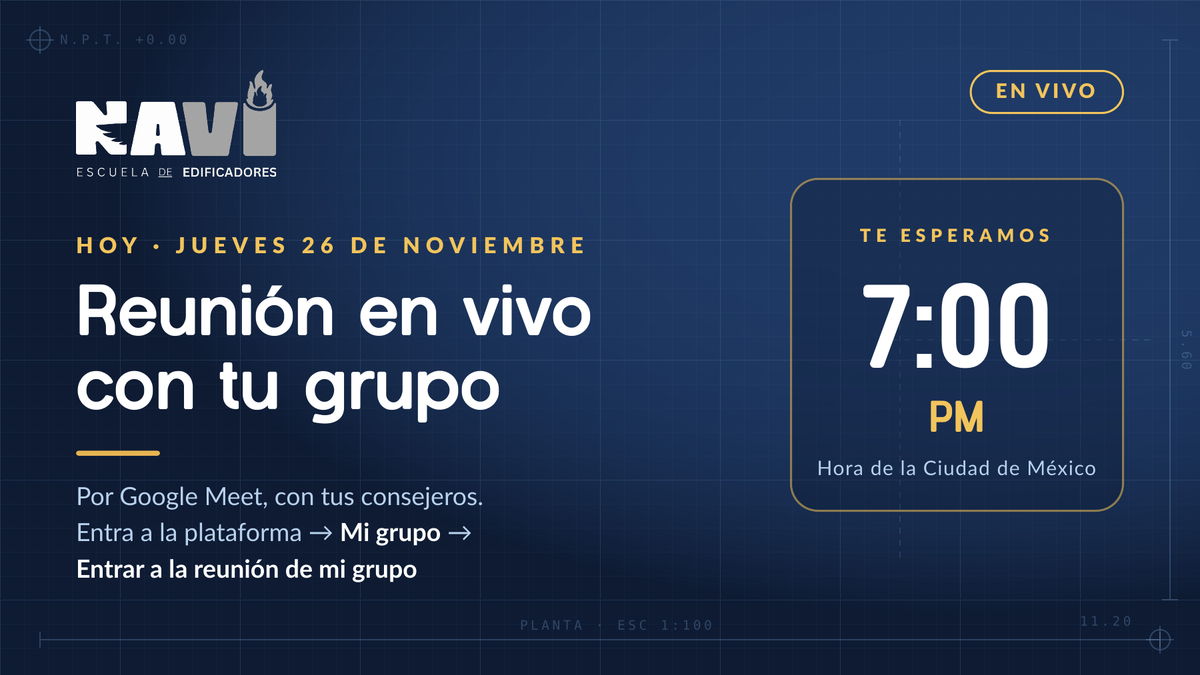
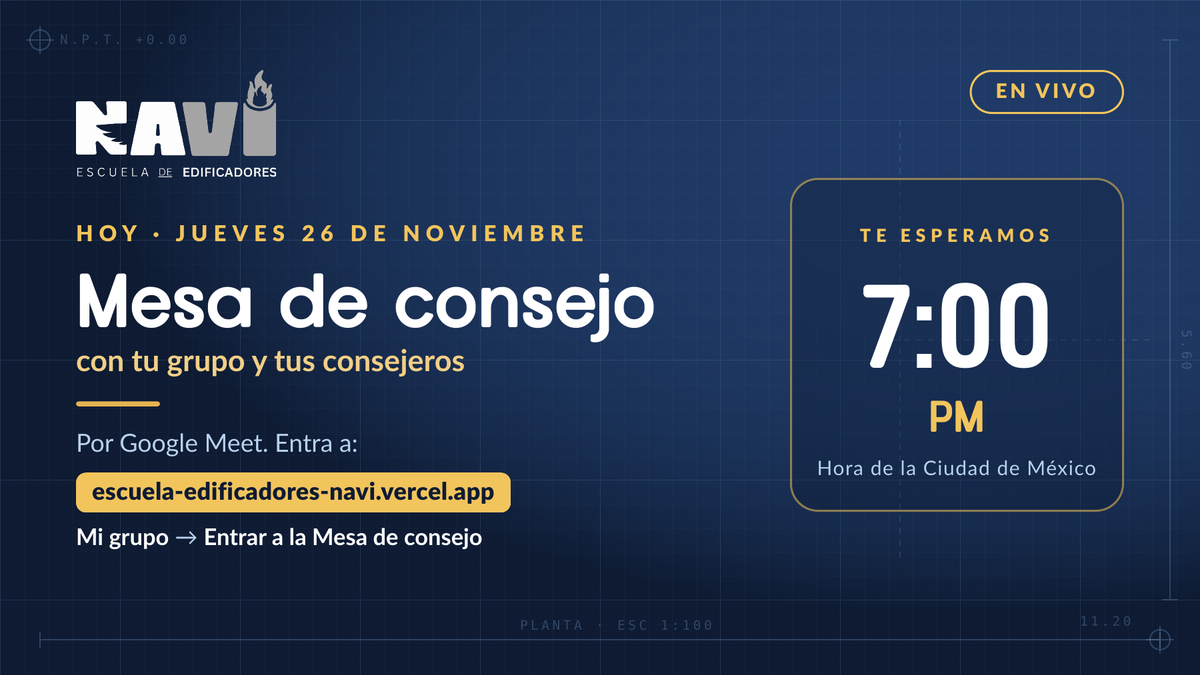
Invitación

Changed region(s): [[0.0617, 0.5289, 0.4317, 0.8711], [0.0617, 0.4044, 0.555, 0.5289], [0.0617, 0.3111, 0.4933, 0.3733]]

diff --git a/index.html b/index.html
@@ -1453,13 +1453,13 @@ function fechaLarga(t){ try{ var d=new Date(t); var s=d.toLocaleDateString('es-M
 function avatarMg(m,big){ var sz=big?46:34; return m.foto?'<img class="mg-av" style="width:'+sz+'px;height:'+sz+'px" src="'+_esc(m.foto)+'" alt="">':'<span class="mg-av mg-ini" style="width:'+sz+'px;height:'+sz+'px;font-size:'+(big?15:12)+'px">'+_esc(_ini(m.nombre))+'</span>'; }
 function reunionGrupoBlock(g){
   var st=estadoReunion(g), link=g.link||'';
-  var btn=function(cls,txt){ return link?'<a class="btn '+cls+' btn-lg mg-go" href="'+_esc(link)+'" target="_blank" rel="noopener">'+txt+'</a>':'<div class="mg-note">Tu consejero publicará aquí el enlace de la reunión.</div>'; };
-  if(st.fase==='vivo') return '<div class="mg-live"><span class="mg-dot"></span>La reunión de tu grupo está por comenzar o ya comenzó</div>'+btn('btn-solid','Entrar ahora a la reunión en vivo →');
+  var btn=function(cls,txt){ return link?'<a class="btn '+cls+' btn-lg mg-go" href="'+_esc(link)+'" target="_blank" rel="noopener">'+txt+'</a>':'<div class="mg-note">Tu consejero publicará aquí el enlace de la Mesa de consejo.</div>'; };
+  if(st.fase==='vivo') return '<div class="mg-live"><span class="mg-dot"></span>La Mesa de consejo de tu grupo está por comenzar o ya comenzó</div>'+btn('btn-solid','Entrar ahora a la Mesa de consejo →');
   if(st.fase==='antes') return '<div class="mg-when">'+fechaLarga(st.t)+' · Google Meet</div>'
      +'<div class="countdown mg-cd" data-t="'+st.t+'"><div class="cd-box"><div class="n" data-u="d">–</div><div class="u">días</div></div><div class="cd-box"><div class="n" data-u="h">–</div><div class="u">horas</div></div><div class="cd-box"><div class="n" data-u="m">–</div><div class="u">min</div></div><div class="cd-box"><div class="n" data-u="s">–</div><div class="u">seg</div></div></div>'
-     +btn('btn-accent','Entrar a la reunión de mi grupo →')+'<div class="mg-note">El botón te lleva a la sala de Google Meet de tu grupo. Te recomendamos entrar 5 minutos antes.</div>';
+     +btn('btn-accent','Entrar a la Mesa de consejo de mi grupo →')+'<div class="mg-note">El botón te lleva a la sala de Google Meet de tu grupo. Te recomendamos entrar 5 minutos antes.</div>';
   if(st.fase==='paso') return '<div class="mg-note">La última reunión fue el '+fechaLarga(st.t)+'. Te avisaremos aquí la próxima fecha.</div>';
-  return (g.dia||g.hora)?'<div class="mg-when">'+_esc([g.dia,g.hora].filter(Boolean).join(' · '))+'</div>'+btn('btn-accent','Entrar a la reunión de mi grupo →'):'<div class="mg-note">Pronto publicaremos aquí la fecha de tu próxima reunión en vivo.</div>';
+  return (g.dia||g.hora)?'<div class="mg-when">'+_esc([g.dia,g.hora].filter(Boolean).join(' · '))+'</div>'+btn('btn-accent','Entrar a la Mesa de consejo de mi grupo →'):'<div class="mg-note">Pronto publicaremos aquí la fecha de tu próxima Mesa de consejo.</div>';
 }
 function dossierDe(nombre){ try{ return (store.mentores||[]).find(function(x){ return x.publicado && (esMentorNombre(x.nombre,[nombre]) || (x.alias && _norm(x.alias)===_norm(nombre))); })||null; }catch(e){ return null; } }
 function mentoresChips(g){ var ms=mentoresDe(g); if(!ms.length) return ''; return '<div class="mg-ments"><span class="mg-lab">Tus consejeros</span>'+ms.map(function(m){ var d=dossierDe(m); return d?'<button class="mg-chip mg-chip-link" onclick="goMentor(\''+d.id+'\')" title="Ver expediente">'+(d.foto?'<img src="'+d.foto+'" alt="">':'')+_esc(m)+' ›</button>':'<span class="mg-chip">'+_esc(m)+'</span>'; }).join('')+'</div>'; }
@@ -1471,7 +1471,7 @@ function miClaseCard(enVista){
   var faces=mem.slice(0,8).map(function(m){return avatarMg(m,false);}).join('')+(mem.length>8?'<span class="mg-av mg-ini mg-more">+'+(mem.length-8)+'</span>':'');
   return '<div class="card mg-card'+(st.fase==='vivo'?' is-live':'')+'">'
     +'<div class="mg-top"><div><div class="mg-eyebrow">Mi grupo</div><div class="mg-title">'+_esc(g.grupo)+'</div></div>'
-    +(st.fase==='vivo'?'<span class="pill pill-ok">● EN VIVO</span>':(st.fase==='antes'?'<span class="pill pill-award">Reunión en vivo</span>':''))+'</div>'
+    +(st.fase==='vivo'?'<span class="pill pill-ok">● EN VIVO</span>':(st.fase==='antes'?'<span class="pill pill-award">Mesa de consejo</span>':''))+'</div>'
     +mentoresChips(g)
     +reunionGrupoBlock(g)
     +(mem.length&&!enVista?'<div class="mg-foot" onclick="nav(\'migrupo\')"><div class="mg-faces">'+faces+'</div><span class="mg-link">Ver a mis '+(mem.length-1)+' compañeros →</span></div>':'')
@@ -2358,11 +2358,11 @@ if (PRELANZAMIENTO) {
     var resp=ta? mb.filter(function(x){return cjDone(x,ta);}).length : 0;
     var atn=mb.filter(function(x){ return temas.filter(function(t){return cjDone(x,t);}).length < Math.max(1,nT-1); });
     var st=estadoReunion({proxima:c.proxima,en_vivo:false}), t=st.t;
-    var cd = (st.fase==='antes') ? '<div class="countdown mg-cd" data-t="'+t+'"><div class="cd-box"><div class="n" data-u="d">–</div><div class="u">días</div></div><div class="cd-box"><div class="n" data-u="h">–</div><div class="u">horas</div></div><div class="cd-box"><div class="n" data-u="m">–</div><div class="u">min</div></div><div class="cd-box"><div class="n" data-u="s">–</div><div class="u">seg</div></div></div>' : (st.fase==='vivo'?'<div class="mg-live"><span class="mg-dot"></span>La reunión está por comenzar o ya comenzó</div>':'');
-    var aviso='¡Hola, Grupo '+c.grupo.replace('Grupo ','')+'! 👋 Les recordamos nuestra reunión en vivo'+(t?(' el '+fechaLarga(t)):'')+'. Entren aquí: '+(c.link||'')+' ¡Los esperamos!';
+    var cd = (st.fase==='antes') ? '<div class="countdown mg-cd" data-t="'+t+'"><div class="cd-box"><div class="n" data-u="d">–</div><div class="u">días</div></div><div class="cd-box"><div class="n" data-u="h">–</div><div class="u">horas</div></div><div class="cd-box"><div class="n" data-u="m">–</div><div class="u">min</div></div><div class="cd-box"><div class="n" data-u="s">–</div><div class="u">seg</div></div></div>' : (st.fase==='vivo'?'<div class="mg-live"><span class="mg-dot"></span>La Mesa de consejo está por comenzar o ya comenzó</div>':'');
+    var aviso='¡Hola, Grupo '+c.grupo.replace('Grupo ','')+'! 👋 Les recordamos nuestra Mesa de consejo'+(t?(' el '+fechaLarga(t)):'')+'. Entren aquí: '+(c.link||'')+' ¡Los esperamos!';
     return '<div class="cj-g2">'
-      +'<div class="card mg-card is-live cj-eq"><div class="mg-eyebrow">Sesión en vivo · '+_esc(c.grupo)+'</div><div class="mg-title" style="font-size:19px">'+(t?fechaLarga(t):'Pronto publicaremos la fecha')+'</div><div class="mg-note" style="margin-top:4px">Google Meet · sala de tu grupo</div>'+cd
-      +'<div class="cj-btns">'+(c.link?'<a class="btn btn-solid" target="_blank" rel="noopener" href="'+_esc(c.link)+'">Entrar a la reunión →</a>':'')
+      +'<div class="card mg-card is-live cj-eq"><div class="mg-eyebrow">Mesa de consejo · '+_esc(c.grupo)+'</div><div class="mg-title" style="font-size:19px">'+(t?fechaLarga(t):'Pronto publicaremos la fecha')+'</div><div class="mg-note" style="margin-top:4px">Google Meet · sala de tu grupo</div>'+cd
+      +'<div class="cj-btns">'+(c.link?'<a class="btn btn-solid" target="_blank" rel="noopener" href="'+_esc(c.link)+'">Entrar a la Mesa de consejo →</a>':'')
       +'<a class="btn btn-sm" target="_blank" rel="noopener" href="assets/consejeros/Guion-de-Sesion.pdf">Guion de la sesión</a>'
       +'<a class="btn btn-sm cj-wa" target="_blank" rel="noopener" href="https://wa.me/?text='+encodeURIComponent(aviso)+'">Avisar al grupo</a></div></div>'
       +'<div class="card cj-eq"><div class="mg-eyebrow" style="color:var(--accent)">Tema de esta quincena</div>'
@@ -2442,7 +2442,7 @@ if (PRELANZAMIENTO) {
       +body(c);
   }, after:function(){ if(typeof cargarConsejeria==='function') cargarConsejeria(); if(typeof cargarGrupos==='function') cargarGrupos(); }};
   VIEWS.migrupo = {title:'Mi grupo', html:function(){
-    return head('Escuela de Edificadores NAVI','Mi grupo','Aquí están tus compañeros, tus consejeros y el acceso a la reunión en vivo de tu grupo.')+miGrupoVista();
+    return head('Escuela de Edificadores NAVI','Mi grupo','Aquí están tus compañeros, tus consejeros y el acceso a la Mesa de consejo de tu grupo.')+miGrupoVista();
   }, after:function(){ cargarMiGrupo(); if(typeof cargarGrupos==='function') cargarGrupos(); }};
   VIEWS.clases = {title:'Mis Clases', html:function(){
     return head('Escuela de Edificadores NAVI','Mis Clases','Tu formación se compone de tres ejes. Los módulos se abrirán próximamente; te avisaremos en cuanto estén listos.')
@@ -2935,9 +2935,9 @@ function heroProxima(mod,sinReunion){
   if(sinReunion){ _nm=null; }
   if(_nm && _cerca){
     reunionHtml='<div class="countdown"><div class="cd-box"><div class="n" id="cdH">–</div><div class="u">horas</div></div><div class="cd-box"><div class="n" id="cdM">–</div><div class="u">min</div></div><div class="cd-box"><div class="n" id="cdS">–</div><div class="u">seg</div></div></div>'
-      +'<div style="font-size:11.5px;color:var(--soft);margin-top:8px">Reunión en vivo: '+_fr(_nm)+' · 7:00 pm (CDMX).</div>';
+      +'<div style="font-size:11.5px;color:var(--soft);margin-top:8px">Mesa de consejo: '+_fr(_nm)+' · 7:00 pm (CDMX).</div>';
   } else if(_nm){
-    reunionHtml='<div style="margin-top:12px;font-size:13px;color:var(--dim)">🗓 Próxima reunión en vivo: <b style="color:var(--cream)">'+_fr(_nm)+' · 7:00 pm (CDMX)</b></div>';
+    reunionHtml='<div style="margin-top:12px;font-size:13px;color:var(--dim)">🗓 Próxima Mesa de consejo: <b style="color:var(--cream)">'+_fr(_nm)+' · 7:00 pm (CDMX)</b></div>';
   }
   var _vid=(m.videoUrl&&/^[A-Za-z0-9_-]{6,15}$/.test(m.videoUrl))?m.videoUrl:'';
   var _thumb=(sinReunion&&_vid)?('<div class="hero-thumb" onclick="goModule('+m.id+')"><img src="https://img.youtube.com/vi/'+_vid+'/hqdefault.jpg" alt="" onerror="this.parentNode.remove()"><span class="vbplay"></span></div>'):'';
